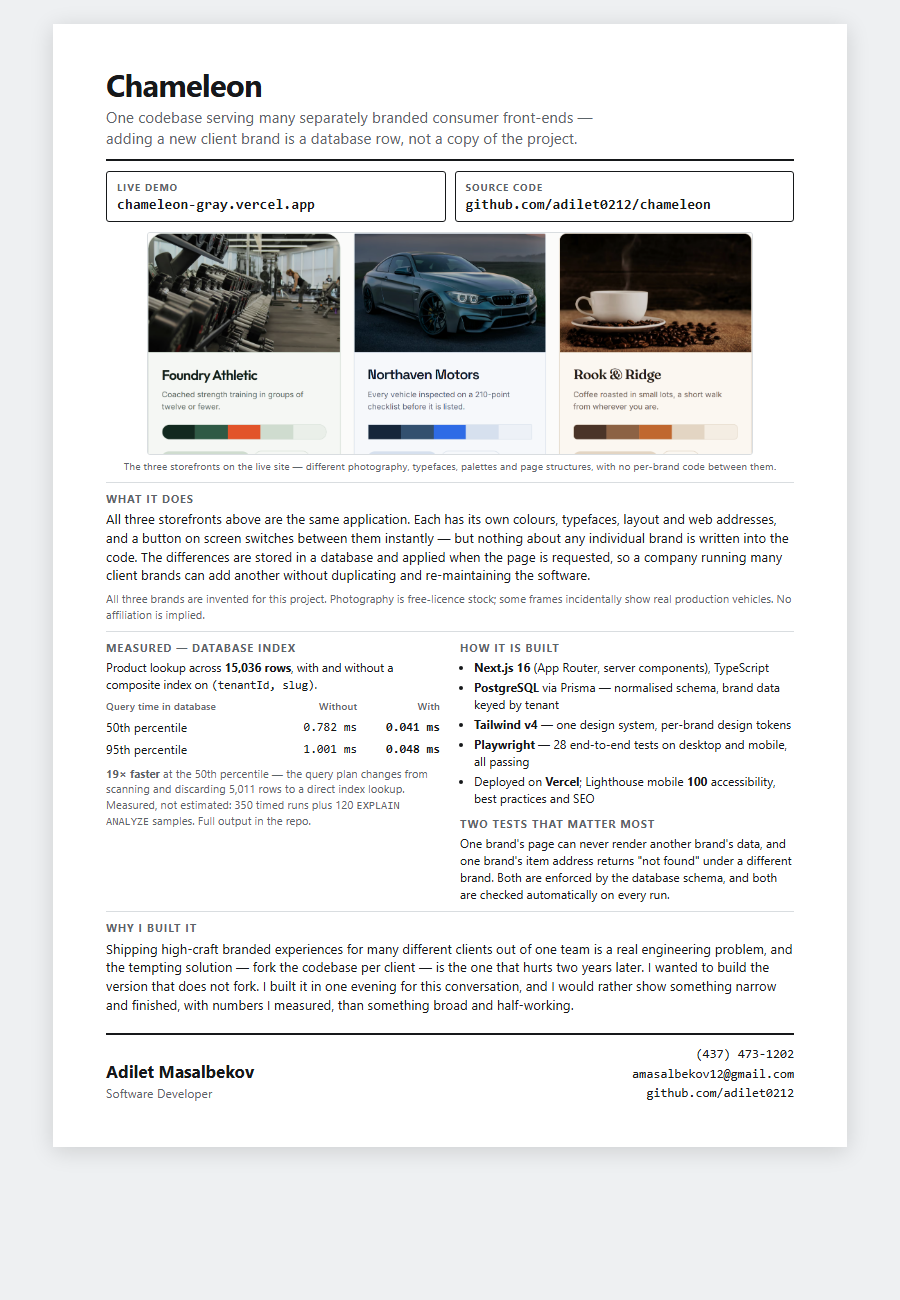
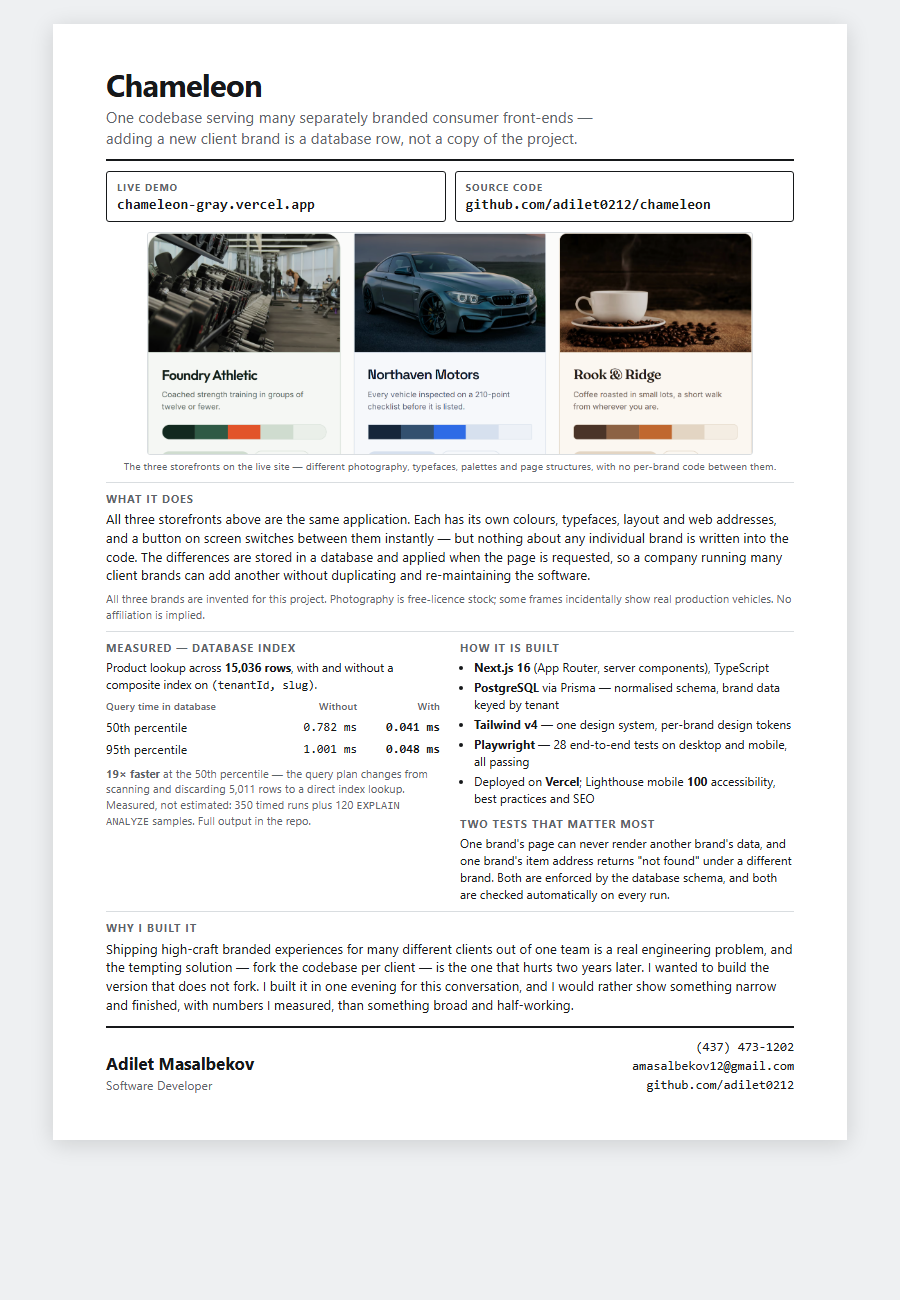
Correct handout spacing that pushed it back to two pages
The 5mm gap above the contact block overshot by 0.3mm. 3mm gives the closing
paragraph room to breathe and leaves 1.8mm spare.

Changed region(s): [[0.0622, 0.8, 0.9333, 0.8923]]

diff --git a/docs/handout.html b/docs/handout.html
@@ -202,7 +202,7 @@
   <hr class="hr" />
 
   <h2>Why I built it</h2>
-  <p style="margin-bottom:5mm;">
+  <p style="margin-bottom:3mm;">
     Shipping high-craft branded experiences for many different clients out of one team is a
     real engineering problem, and the tempting solution — fork the codebase per client — is
     the one that hurts two years later. I wanted to build the version that does not fork.
